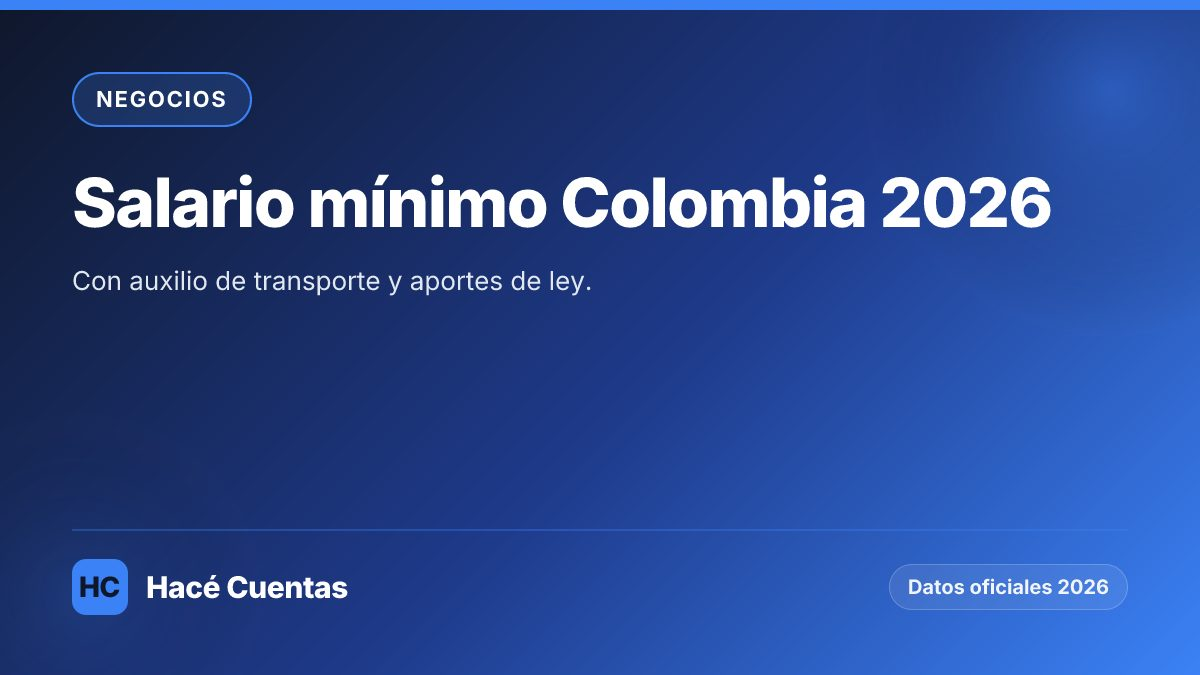
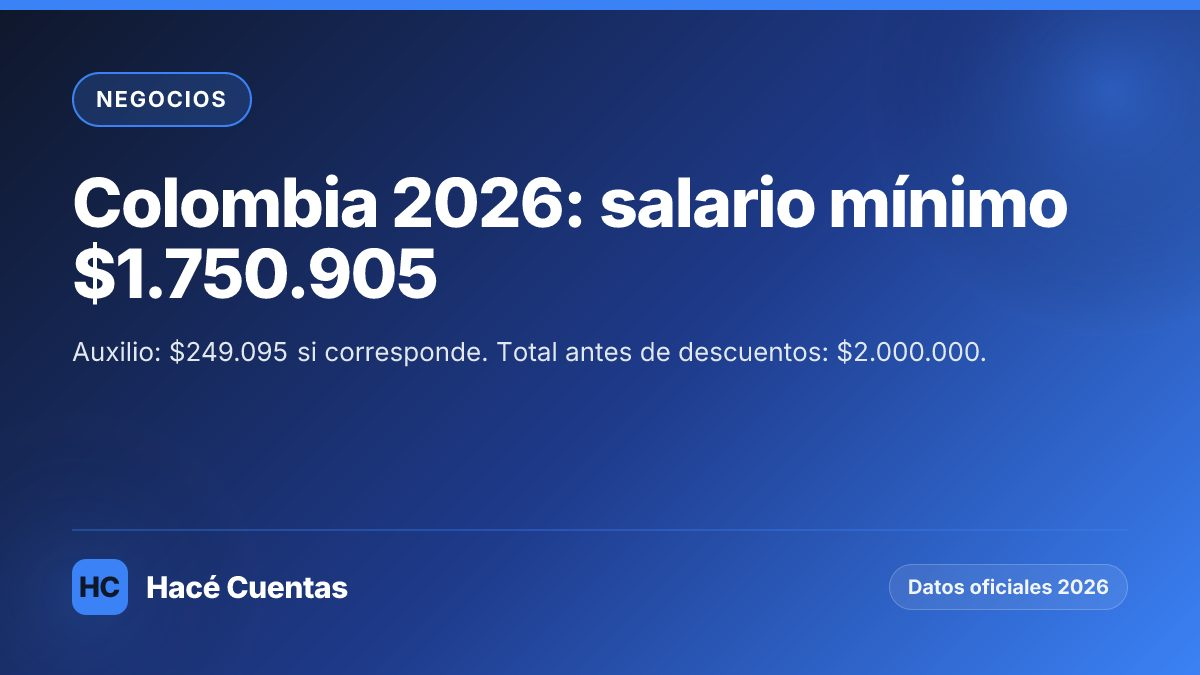
feat(growth): measurable public-resource sharing on organic entry pages

Changed region(s): [[0.0617, 0.2489, 0.8942, 0.4667], [0.0617, 0.4978, 0.8325, 0.56]]

diff --git a/tests/resource-share.test.ts b/tests/resource-share.test.ts
@@ -1,0 +1,35 @@
+import { describe, expect, it } from 'vitest';
+import { SHARE_RESOURCES, resourceShare, copyResourceText } from '../src/lib/resource-share';
+import { isHcEvent, sanitizeAnalyticsParams } from '../src/lib/analytics';
+
+describe('public resource acquisition', () => {
+  it.each(Object.keys(SHARE_RESOURCES) as (keyof typeof SHARE_RESOURCES)[])('uses only a public canonical and measurable referral for %s', (key) => {
+    const share = resourceShare(key, 'whatsapp');
+    const url = new URL(share.url);
+    expect(url.origin).toBe('https://hacecuentas.com');
+    expect(url.pathname).toBe(SHARE_RESOURCES[key].path);
+    expect([...url.searchParams.keys()].sort()).toEqual(['utm_campaign', 'utm_content', 'utm_medium', 'utm_source']);
+    expect(url.searchParams.get('utm_medium')).toBe('referral');
+    expect(url.hash).toBe('');
+    expect(new URL(share.whatsapp).searchParams.get('text')).toBe(share.text);
+  });
+  it('retains the eligibility qualification on the public salary total', () => {
+    expect(resourceShare('salario-colombia-2026', 'copy').text).toMatch(/\$249.095 si corresponde; total antes de descuentos \$2.000.000/);
+  });
+  it('distinguishes copied resources from WhatsApp referral sessions', () => {
+    expect(new URL(resourceShare('ganancias-2026', 'copy').url).searchParams.get('utm_source')).toBe('shared_resource');
+    expect(new URL(resourceShare('ganancias-2026', 'whatsapp').url).searchParams.get('utm_source')).toBe('whatsapp');
+  });
+  it('only reports success after the clipboard promise resolves', async () => {
+    let copied = '';
+    expect(await copyResourceText('public text', { writeText: async (text) => { copied = text; } })).toBe(true);
+    expect(copied).toBe('public text');
+    expect(await copyResourceText('public text', { writeText: async () => { throw new Error('denied'); } })).toBe(false);
+    expect(await copyResourceText('public text')).toBe(false);
+  });
+  it('keeps share events in the safe catalog without leaking financial inputs', () => {
+    expect(isHcEvent('hc_resource_share_open')).toBe(true);
+    expect(isHcEvent('hc_resource_copy')).toBe(true);
+    expect(sanitizeAnalyticsParams({ source_page: '/co/test', interaction_type: 'copy_success', salary: 12345, text: 'private' })).toEqual({ source_page: '/co/test', interaction_type: 'copy_success' });
+  });
+});

diff --git a/src/lib/resource-share.ts b/src/lib/resource-share.ts
@@ -1,0 +1,32 @@
+import { COLOMBIA_2026 } from './data/colombia-2026';
+const cop = (n: number) => '$' + n.toLocaleString('es-CO');
+// Public editorial text only: never read the current URL, calculator state or inputs.
+export const SHARE_RESOURCES = {
+  'salario-colombia-2026': {
+    path: '/co/datos-salario-minimo-colombia-2026',
+    heading: 'Comparte el salario mínimo con su fuente',
+    summary: `Colombia 2026: salario mínimo mensual ${cop(COLOMBIA_2026.smlmv)} COP. Auxilio de transporte: ${cop(COLOMBIA_2026.auxilioTransporte)} si corresponde; total antes de descuentos ${cop(COLOMBIA_2026.smlmv + COLOMBIA_2026.auxilioTransporte)}. Fuentes: decretos 0159/2026 y 1470/2025. Consulta requisitos y descuentos en Hacé Cuentas.`,
+    note: 'Envía el dato público y el enlace a las normas. No incluye lo que ingreses en la calculadora.',
+  },
+  'ganancias-2026': {
+    path: '/blog/escala-ganancias-2026-argentina-tabla-completa-explicada',
+    heading: 'Compartí la tabla de Ganancias con quien la necesita',
+    summary: 'Ganancias 2026 en Argentina: tablas de ambos semestres, fuentes de ARCA y calculadora de tramo. La alícuota marginal se aplica al excedente del tramo, no a todo el sueldo. Consultá la explicación en Hacé Cuentas.',
+    note: 'Compartís la guía pública. No se incluyen tu sueldo, base imponible ni resultados personales.',
+  },
+} as const;
+export type ResourceKey = keyof typeof SHARE_RESOURCES;
+export function resourceShare(key: ResourceKey, channel: 'whatsapp' | 'copy') {
+  const resource = SHARE_RESOURCES[key];
+  const url = new URL(resource.path, 'https://hacecuentas.com');
+  url.searchParams.set('utm_source', channel === 'whatsapp' ? 'whatsapp' : 'shared_resource');
+  url.searchParams.set('utm_medium', 'referral');
+  url.searchParams.set('utm_campaign', 'public_resources_20261116');
+  url.searchParams.set('utm_content', key);
+  const text = resource.summary + '\n' + url.href;
+  return { url: url.href, text, whatsapp: 'https://wa.me/?text=' + encodeURIComponent(text) };
+}
+export async function copyResourceText(text: string, clipboard?: { writeText: (text: string) => Promise<void> }): Promise<boolean> {
+  if (!clipboard) return false;
+  try { await clipboard.writeText(text); return true; } catch { return false; }
+}

diff --git a/scripts/generate-og-images.ts b/scripts/generate-og-images.ts
@@ -578,7 +578,7 @@ const DATA_PAGES: DataPage[] = [
   { slug: 'datos-cuota-autonomos-2026', title: 'Cuota de autónomos 2026 (España)', description: 'Tabla por tramos de rendimiento neto (RETA).', category: 'finanzas', tag: 'Datos oficiales 2026' },
   // — LATAM · salarios mínimos por país —
   { slug: 'datos-salario-minimo-argentina-2026', title: 'Salario mínimo Argentina 2026', description: 'SMVM mensual, por hora y cronograma mes a mes.', category: 'negocios', tag: 'Datos oficiales 2026' },
-  { slug: 'datos-salario-minimo-colombia-2026', title: 'Salario mínimo Colombia 2026', description: 'Con auxilio de transporte y aportes de ley.', category: 'negocios', tag: 'Datos oficiales 2026' },
+  { slug: 'datos-salario-minimo-colombia-2026', title: 'Colombia 2026: salario mínimo $1.750.905', description: 'Auxilio: $249.095 si corresponde. Total antes de descuentos: $2.000.000.', category: 'negocios', tag: 'Datos oficiales 2026' },
   { slug: 'datos-salario-minimo-mexico-2026', title: 'Salario mínimo México 2026', description: 'Diario, mensual y valor de la UMA.', category: 'negocios', tag: 'Datos oficiales 2026' },
   { slug: 'datos-uma-imss-2026', title: 'Valor de la UMA 2026 (México)', description: 'Diaria, mensual y anual, con topes IMSS y multas.', category: 'negocios', tag: 'Datos oficiales 2026' },
   { slug: 'datos-sueldo-minimo-peru-2026', title: 'Sueldo mínimo Perú 2026', description: 'RMV, UIT y descuentos de ley (tabla).', category: 'negocios', tag: 'Datos oficiales 2026' },

diff --git a/src/lib/analytics.ts b/src/lib/analytics.ts
@@ -78,6 +78,9 @@ export const HC_EVENTS = [
   'hc_push_unsubscribe',
   // Datos abiertos: click en una descarga first-party CSV/JSON bajo /datos/.
   'hc_dataset_download',
+  // Public resource sharing: open intent is not a sent message or incoming visit.
+  'hc_resource_share_open',
+  'hc_resource_copy',
   'hc_api_playground_run',
 ] as const;
 

diff --git a/tests/analytics.test.ts b/tests/analytics.test.ts
@@ -26,6 +26,7 @@ describe('catálogo de eventos', () => {
       'hc_push_view', 'hc_push_subscribe', 'hc_push_dismiss', 'hc_push_denied',
       'hc_push_unsubscribe',
       'hc_dataset_download',
+      'hc_resource_share_open', 'hc_resource_copy',
       'hc_api_playground_run',
     ];
     expect([...HC_EVENTS].sort()).toEqual([...spec].sort());
